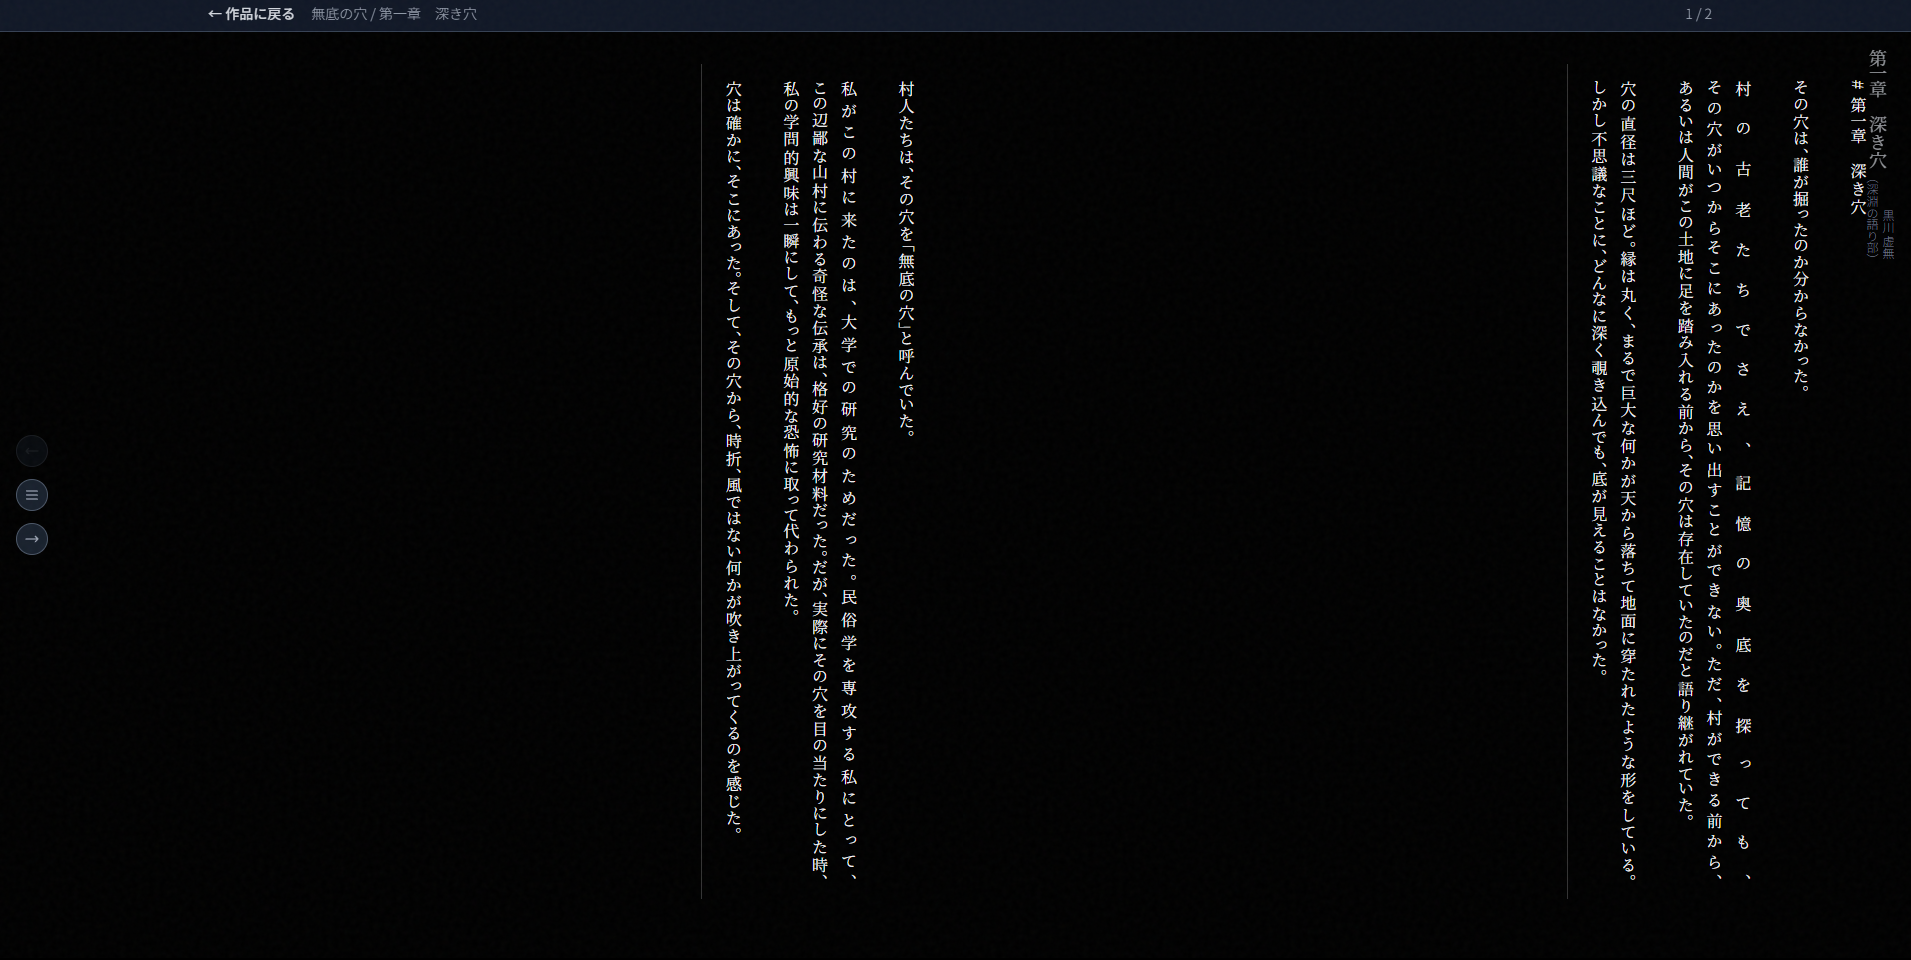
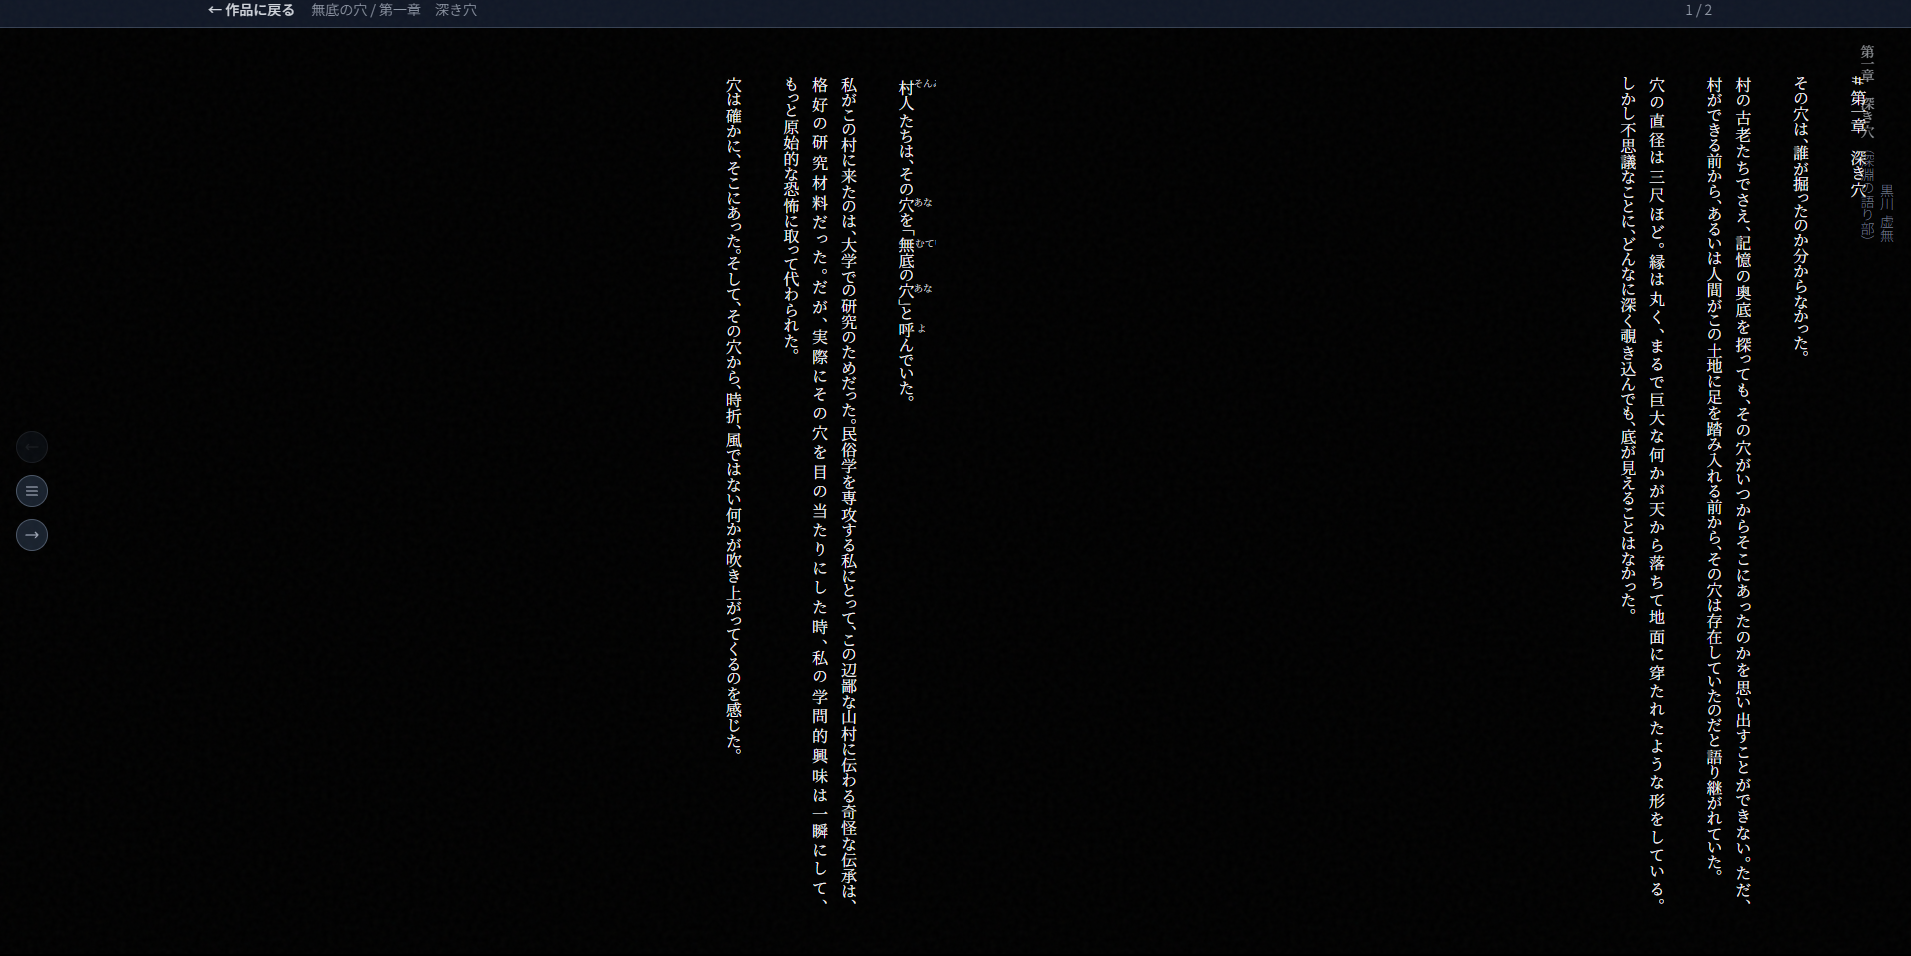
fix: 段落間空白とルビの縦書き表示を修正
- 段落を個別のpタグで管理して巨大な空白を除去
- ルビをabsolute positioningで縦書きに対応
- white-space: normalで不要な改行を除去
- 段落間隔をmarginで適切に制御
- ルビの位置とサイズを縦書きに最適化

🤖 Generated with [Claude Code](https://claude.ai/code)

Changed region(s): [[0.0, 0.0, 1.0, 0.9404], [0.0, 0.4854, 0.0309, 0.5764], [0.8336, 0.8797, 0.8645, 0.91]]

diff --git a/src/app/read/[workId]/[chapterId]/page.tsx b/src/app/read/[workId]/[chapterId]/page.tsx
@@ -81,31 +81,42 @@ export default async function ReaderPage({ params }: ReaderPageProps) {
           <div className="reader-main">
             <div className="reader-content-wrapper">
               {(() => {
-                const paragraphs = chapter.content.split('\n\n');
-                const midPoint = Math.ceil(paragraphs.length / 2);
-                const firstHalf = paragraphs.slice(0, midPoint).join('\n\n');
-                const secondHalf = paragraphs.slice(midPoint).join('\n\n');
+                // 段落を適切に分割（空行を除去）
+                const paragraphs = chapter.content
+                  .split('\n\n')
+                  .filter(p => p.trim().length > 0)
+                  .map(p => p.replace(/\n/g, ''));
                 
-                // ルビパーサーを適用
-                const firstHalfWithRuby = parseTextWithRuby(firstHalf);
-                const secondHalfWithRuby = parseTextWithRuby(secondHalf);
+                const midPoint = Math.ceil(paragraphs.length / 2);
+                const firstHalf = paragraphs.slice(0, midPoint);
+                const secondHalf = paragraphs.slice(midPoint);
                 
                 return (
                   <>
                     {/* 右側コラム（最初に表示） */}
                     <div className="reader-column">
-                      <div 
-                        className="reader-text"
-                        dangerouslySetInnerHTML={{ __html: firstHalfWithRuby }}
-                      />
+                      <div className="reader-text">
+                        {firstHalf.map((paragraph, index) => (
+                          <p 
+                            key={index} 
+                            className="reader-paragraph"
+                            dangerouslySetInnerHTML={{ __html: parseTextWithRuby(paragraph) }}
+                          />
+                        ))}
+                      </div>
                     </div>
                     
                     {/* 左側コラム */}
                     <div className="reader-column">
-                      <div 
-                        className="reader-text"
-                        dangerouslySetInnerHTML={{ __html: secondHalfWithRuby }}
-                      />
+                      <div className="reader-text">
+                        {secondHalf.map((paragraph, index) => (
+                          <p 
+                            key={index} 
+                            className="reader-paragraph"
+                            dangerouslySetInnerHTML={{ __html: parseTextWithRuby(paragraph) }}
+                          />
+                        ))}
+                      </div>
                     </div>
                   </>
                 );

diff --git a/src/app/globals.css b/src/app/globals.css
@@ -163,7 +163,7 @@ body {
   line-break: strict;
   word-break: keep-all;
   overflow-wrap: break-word;
-  white-space: pre-line; /* pre-wrapから変更 */
+  white-space: normal; /* normalに変更 */
   /* 縦書き特有の調整 */
   text-combine-upright: none;
   font-feature-settings: "vkrn" 1, "vpal" 1, "vchw" 1;
@@ -172,6 +172,12 @@ body {
   /* 空白の処理を改善 */
   word-spacing: 0;
   tab-size: 0;
+}
+
+.reader-paragraph {
+  margin: 0 0 1.5em 0; /* 段落間隔を制御 */
+  padding: 0;
+  line-height: inherit;
 }
 
 .vertical-text {
@@ -206,10 +212,11 @@ body {
   transition: transform 0.3s cubic-bezier(0.4, 0, 0.2, 1);
 }
 
-/* ルビ（ふりがな）スタイル */
+/* ルビ（ふりがな）スタイル - 縦書き対応 */
 .ruby {
-  ruby-position: over;
+  ruby-position: inter-character;
   ruby-align: center;
+  position: relative;
 }
 
 .ruby rt {
@@ -217,19 +224,33 @@ body {
   color: #d1d5db;
   font-weight: 300;
   text-orientation: upright;
-  writing-mode: horizontal-tb;
-}
-
-/* 縦書きでのルビ調整 */
-.reader-text .ruby {
-  ruby-position: inter-character;
-}
-
-.reader-text .ruby rt {
-  font-size: 0.6em;
+  writing-mode: vertical-rl;
   line-height: 1;
   margin: 0;
   padding: 0;
+  position: relative;
+  left: -0.5em; /* 縦書きでの位置調整 */
+}
+
+/* 縦書きリーダー内でのルビ調整 */
+.reader-text .ruby {
+  ruby-position: inter-character;
+  display: inline-block;
+  position: relative;
+}
+
+.reader-text .ruby rt {
+  font-size: 0.45em;
+  line-height: 1;
+  margin: 0;
+  padding: 0;
+  writing-mode: vertical-rl;
+  text-orientation: upright;
+  position: absolute;
+  left: -1.2em;
+  top: 0;
+  width: 1em;
+  text-align: center;
 }
 
 /* レスポンシブ調整 */
